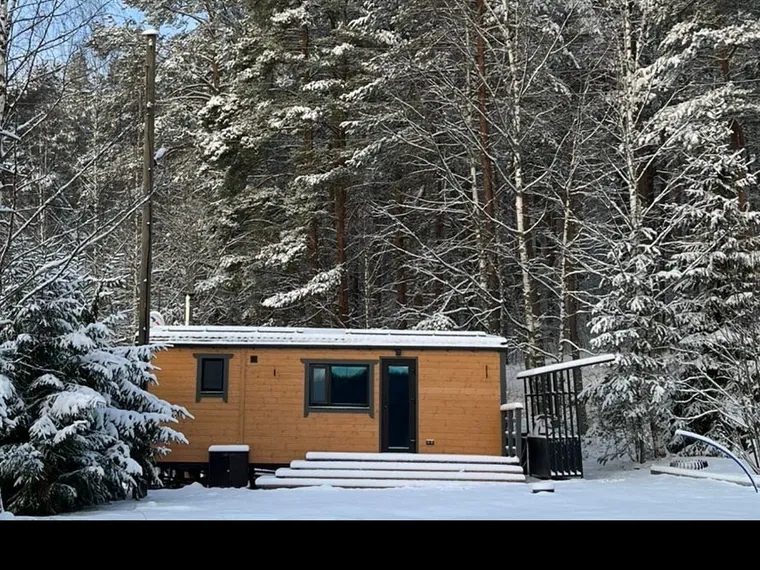
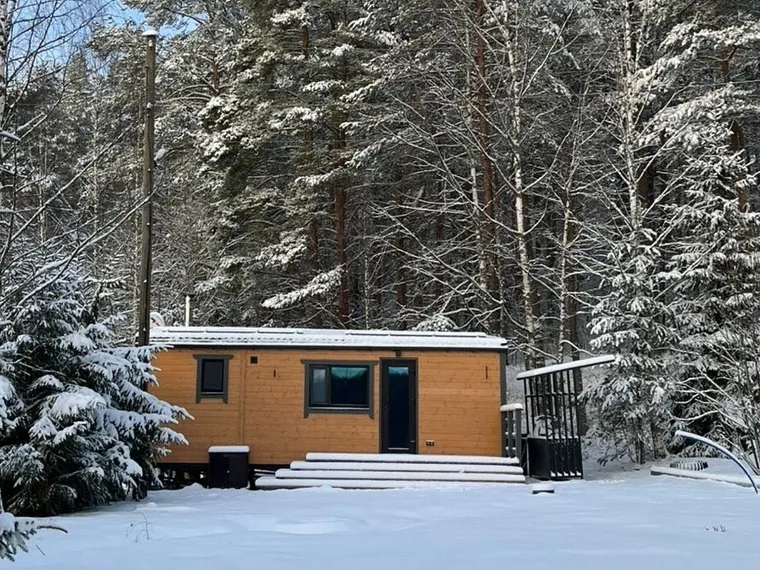
Минидом в Карелии: на первом фото дом целиком, со снегом перед ним
Первое фото было обрезано по крыльцо, а в каталоге рамка 4:3 срезала
низ дома. Надпись с исходного фото убрана, кадр 4:3 с домом и снегом.
Обложка на сайте без чёрной полосы снизу; план зелёного дома 48 м²
без чёрных полос и обрезков подписей.

Claude-Session: https://claude.ai/code/session_01Ncg2WsdbaUiHi2r3Knh2FN

diff --git a/promo.html b/promo.html
@@ -2249,7 +2249,7 @@ html.has-house { overflow: hidden; }
 </script>
 <script>
 var HOUSES = {"h1": {"title": "Чёрный снаружи, белый внутри", "facts": [["Размер", "6×8,5 м: дом 6×6 м и терраса 2,5×6 м"], ["Внутри", "две спальни, кухня-гостиная, прихожая, санузел, дровяная печь"], ["Отделка", "стены в краске, ламинат 33 класса"], ["Когда", "сентябрь 2026"]], "note": null, "spec": null, "video": null, "reviews": [["Нет слов! Красота. Стиль. Уют.", "Елена, комментарий ВКонтакте"], ["Шикарно выглядит.", "Сергей, комментарий ВКонтакте"]], "photos": [["h1-01", "Дом 6×8,5 м: сам дом 6×6 м и терраса 2,5×6 м под общей крышей", 0], ["h1-02", "Вечером горит свет под навесом террасы", 0], ["h1-03", "Холодильник и мебель заказчика приехали на участок прямо в доме", 0], ["h1-04", "Дровяная печь греет, даже если отключат электричество", 0], ["h1-05", "Спальня с двумя окнами", 0], ["h1-06", "Прихожая, справа санузел со стиральной машиной", 0], ["h1-07", "Цвет стен выбрал заказчик", 0], ["h1-08", "Стены подготовлены под плитку: её заказчик выберет и положит позже", 0], ["h1-09", "Две спальни, кухня-гостиная, прихожая и санузел", 1]]}, "h2": {"title": "Баня с жилой комнатой", "facts": [["Размер", "баня 31,5 м² и угловая терраса 12 м²"], ["Внутри", "комната 14 м², парная, душевая, санузел"], ["Изготовление", "3–4 недели"], ["Когда", "октябрь 2026"]], "note": null, "spec": null, "video": null, "reviews": [], "photos": [["h2-01", "Баня с жилой комнатой: 31,5 м² и угловая терраса 12 м²", 0], ["h2-02", "В сумерках на террасе горит свет", 0], ["h2-03", "Комната 14 м²: по плану здесь диван и кровать, можно остаться ночевать", 0], ["h2-04", "Коридор к парной и душевой", 0], ["h2-05", "Душевая отделана панелями под тёмный камень", 0], ["h2-06", "Санузел с окном: унитаз и раковина с тумбой", 0], ["h2-07", "Парная: дровяная печь у стены из кирпича", 0], ["h2-08", "Полки буквой Г, из парной дверь в душевую", 0], ["h2-09", "Планировка: комната, санузел, душевая, парная и терраса", 1]]}, "h3": {"title": "Дачный дом 3×9 с хозблоком", "facts": [["Размер", "3×9 м"], ["Внутри", "кухня-гостиная с печью, санузел с душем, прихожая, хозблок со своим входом"], ["Изготовление", "3–4 недели, установка за 1 день"], ["Когда", "сентябрь 2026"]], "note": "В хозблоке стеллаж и откидной столик: для рассады и зарядки аккумуляторов. Планировку придумал заказчик.", "spec": null, "video": null, "reviews": [["Какой классный проект! Восхищаюсь вами.", "Татьяна, комментарий ВКонтакте"], ["Сколько можно уместить в таком пространстве, обалдеть! Очень круто.", "Сергей, комментарий ВКонтакте"], ["Какое роскошество и продуманность!", "Katrin, комментарий ВКонтакте"]], "photos": [["h3-01", "Два входа под одним козырьком: в дом и в хозблок", 0], ["h3-02", "Кухня вдоль окон: духовой шкаф, посудомоечная машина и холодильник", 0], ["h3-03", "Топится печь, рядом плита и столешница под окнами", 0], ["h3-04", "Прихожая: шкаф подвешен над полом, справа дверь в санузел", 0], ["h3-05", "Санузел: душ, унитаз и стиральная машина", 0], ["h3-06", "Планировка: хозблок, прихожая, санузел и кухня-гостиная", 1]]}, "h4": {"title": "Баня 2,5×6", "facts": [["Размер", "2,5×6 м"], ["Внутри", "комната отдыха, моечная, парная"], ["Изготовление", "2–3 недели"], ["Гарантия", "5 лет"], ["Когда", "август 2026"]], "note": null, "spec": ["Утепление: пол и потолок 150 мм, стены 100 мм", "Крыша из гибкой черепицы", "Окна двухкамерные Rehau", "Пол со стоком для воды; влагостойкий ламинат 33 класса", "Парная и моечная из осины и лиственницы", "Входная дверь не промерзает зимой, внутри стеклянные банные двери", "Электрика с защитой от удара током (УЗО)"], "video": null, "reviews": [["Банька — мечта!", "Алла, комментарий ВКонтакте"]], "photos": [["h4-01", "Баня приезжает на участок готовой: с печью, полками и электрикой", 0], ["h4-02", "Огонь в печи видно через стеклянную дверцу топки", 0], ["h4-03", "Моечная: бак для воды, лавка и пол со стоком", 0], ["h4-04", "Парная: полки буквой Г и печь «Гейзер мини»", 0], ["h4-05", "Из парной дверь ведёт в моечную", 0], ["h4-06", "Планировка: комната отдыха, моечная и парная", 1]]}, "h5": {"title": "Дом 48 м² с угловой террасой", "facts": [["Размер", "48 м² и угловая терраса"], ["Внутри", "две спальни, гостиная, кухня-столовая, санузел"], ["Когда", "август 2026"]], "note": "Заказчики почти сразу переехали и живут. Всем тепло и комфортно.", "spec": null, "video": null, "reviews": [["Очень уютно получилось!", "Марина, комментарий ВКонтакте"]], "photos": [["h5-01", "Фото прислали заказчики после переезда", 0], ["h5-02", "В прихожей встречает хозяйский пёс", 0], ["h5-03", "Спальня с большим окном", 0], ["h5-04", "Вторая спальня стала детской", 0], ["h5-05", "Гостиная: угловой диван у окна", 0], ["h5-06", "Напротив дивана тумба с телевизором", 0], ["h5-07", "Санузел: водонагреватель и фильтр для воды", 0], ["h5-08", "Планировка: две спальни, гостиная, кухня-столовая, санузел и терраса", 1]]}, "h6": {"title": "Рыжий дом 69 м²", "facts": [["Размер", "6×11,5 м: дом 6×9 м и терраса 6×2,5 м"], ["Внутри", "кухня-гостиная с печью, две спальни, санузел с душем"], ["Изготовление", "4–5 недель под ключ, установка 2 дня"], ["Когда", "июнь 2026"]], "note": null, "spec": null, "video": null, "reviews": [["Какие ваши дома просторные и красивые.", "Елена, комментарий ВКонтакте"], ["Какой простор!", "Katrin, комментарий ВКонтакте"]], "photos": [["h6-01", "69 м² вместе с террасой: дом 6×9 м и терраса 6×2,5 м", 0], ["h6-02", "Терраса на всю ширину дома, к ней ведут широкие ступени", 0], ["h6-03", "Вид сбоку: окна вдоль длинной стороны и труба от печи", 0], ["h14-03", "Кухня-гостиная: печь и стеклянная дверь на террасу", 0], ["h14-04", "Спальня с двуспальной кроватью", 0], ["h14-05", "Вторая спальня", 0], ["h14-06", "Санузел: душ и раковина с тумбой", 0]]}, "h7": {"title": "Дом с баней", "facts": [["Внутри", "кухня-гостиная, спальня, санузел с душем, парная"], ["Изготовление", "до 4 недель, установка 1–2 дня"], ["Когда", "апрель 2026"]], "note": null, "spec": null, "video": null, "reviews": [["Какой чудесный домик! С банькой! Вот оно — тихое семейное счастье и релакс!", "Алла, комментарий ВКонтакте"]], "photos": [["h7-01", "Рыжий фасад и широкая терраса со ступенями", 0], ["h7-02", "Кухня-гостиная, за резной перегородкой спальное место", 0], ["h7-03", "Кухня: духовой шкаф, варочная панель и стол у окна", 0], ["h7-04", "Спальня: двуспальная кровать и ещё одно спальное место", 0], ["h7-05", "Санузел: душевая со стеклянными дверями и зеркало с подсветкой", 0], ["h7-06", "Парная: дровяная печь и полки с подсветкой", 0], ["h7-07", "Печь-каменка, дверь из парной ведёт в дом", 0], ["h7-08", "Планировка дома с баней", 1]]}, "h8": {"title": "Дом-студия 27 м²", "facts": [["Размер", "27 м²"], ["Внутри", "комната с печью, спальня, санузел с душем"], ["Изготовление", "12–15 дней, установка за несколько часов"], ["Когда", "апрель 2026"]], "note": "Зимний дом в комплектации под ключ: привезли, поставили, заходи и живи.", "spec": null, "video": null, "reviews": [], "photos": [["h8-01", "Зимний дом-студия 27 м² с дровяной печью", 0], ["h8-02", "Комната с печью и окнами на две стороны", 0], ["h8-03", "Коридор: шкаф-купе с зеркалом, в конце печь", 0], ["h8-04", "Отдельная спальня", 0], ["h8-05", "Санузел: душ, раковина над стиральной машиной и унитаз", 0]]}, "h9": {"title": "Дом 48 м², зелёный", "facts": [["Размер", "48 м²"], ["Внутри", "кухня-гостиная с печью, спальня, санузел, прихожая с гардеробом"], ["Изготовление", "3 недели, установка 1 день"], ["Когда", "март 2026"]], "note": null, "spec": null, "video": null, "reviews": [["Мне нравятся все ваши дома! Особенно в тёплых светлых тонах.", "Татьяна, комментарий ВКонтакте"], ["Очень классный. Компактный.", "комментарий ВКонтакте"]], "photos": [["h9-01", "Зелёный фасад и белая терраса на закате", 0], ["h9-02", "Терраса с белыми перилами у входа", 0], ["h9-03", "Кухня-гостиная с печью и окнами на две стороны", 0], ["h9-04", "Кухня-гостиная во всю ширину дома, в конце печь", 0], ["h9-05", "Спальня с большим окном", 0], ["h9-06", "Санузел: стены под тёмный мрамор, место под душ", 0], ["h9-07", "Планировка: спальня, кухня-гостиная, прихожая с гардеробом и санузел", 1]]}, "h10": {"title": "Дом 48 м², рыжий с графитом", "facts": [["Размер", "48 м², 6×8 м"], ["Внутри", "две спальни, кухня-гостиная с печью, санузел, прихожая"], ["Изготовление", "3 недели под ключ"], ["Когда", "март 2026"]], "note": null, "spec": null, "video": null, "reviews": [["А главное — качественный! Как вспомню свой мини-теремок, так вздрогну.", "Нина, комментарий ВКонтакте"], ["Уютный домик очень! И очень симпатичный!", "Алла, комментарий ВКонтакте"]], "photos": [["h10-01", "Дом 48 м² зимой: свет у входа и в окнах", 0], ["h10-02", "Вход с фонарями по обе стороны двери", 0], ["h10-03", "Гостиная: светлые стены и тёмный пол", 0], ["h10-04", "Печь у стены, отделанной под чёрный мрамор", 0], ["h10-05", "Стеклянная дверь на улицу", 0], ["h10-06", "Прихожая: шкаф с жалюзийными дверцами", 0], ["h10-07", "Душевая: стены под тёмный камень", 0], ["h10-08", "Первый тост в новом доме, у печи", 0], ["h10-09", "Планировка: две спальни, кухня-гостиная, санузел и прихожая", 1]]}, "h11": {"title": "Дом 54 м², бордовый", "facts": [["Размер", "54 м²"], ["Внутри", "кухня-гостиная с печью, две спальни, санузел"], ["Изготовление", "3 недели под ключ, установка 1 день"], ["Когда", "март 2026"]], "note": "Планировку можно изменить бесплатно.", "spec": null, "video": null, "reviews": [["Цвет дома просто отличный! Планировка замечательная!", "Олеся, комментарий ВКонтакте"], ["Классный дом! Цвет потрясающий.", "Елена, комментарий ВКонтакте"]], "photos": [["h11-01", "Бордовый фасад, белые окна и терраса", 0], ["h11-02", "Кухня-гостиная с дровяной печью", 0], ["h11-03", "Коридор к спальням", 0], ["h11-04", "Санузел: душ, стены под светлый мрамор", 0], ["h11-05", "Прихожая: входная дверь с зеркалом", 0], ["h11-06", "Планировка: две спальни, кухня-гостиная, санузел", 1]]}, "h12": {"title": "Зимний минидом", "facts": [["Внутри", "кухня-гостиная 11,4 м², спальня 5,8 м², санузел, прихожая"], ["Терраса", "14 м²"], ["Изготовление", "2 недели под ключ, установка за несколько часов"], ["Когда", "март 2026"]], "note": "Подходит, чтобы начать дачную жизнь или сдавать в аренду.", "spec": null, "video": null, "reviews": [["Какой очаровательный и удобный домик! Компактный такой!", "Алла, комментарий ВКонтакте"]], "photos": [["h12-01", "Терраса 14 м² перед большими окнами", 0], ["h12-02", "Печь уже топится, в доме тепло", 0], ["h12-03", "Кухня-гостиная: диван у больших окон", 0], ["h12-04", "Кухня вдоль стены", 0], ["h12-05", "Санузел с душем", 0], ["h12-06", "Планировка: кухня-гостиная, спальня, санузел, прихожая и терраса", 1]]}, "h13": {"title": "Дом на вырост, 72 м²", "facts": [["Размер", "60 м² и терраса 12 м²"], ["Модули", "три, под общей крышей"], ["Когда", "октябрь 2025"]], "note": "Раньше на этом участке стоял один модуль 27 м². Теперь это дом на 60 м² с террасой.", "spec": null, "video": null, "reviews": [["Юля, Юра и всей вашей команде огромное спасибо! …С вами просто замечательно работать! В доме тепло, просторно, светло… Не верится, что один модуль превратился в такую красоту.", "Олеся, заказчица"]], "photos": [["h13-01", "Дом на вырост: 60 м² и терраса 12 м², три модуля", 0], ["h13-02", "Терраса 12 м² у входа", 0], ["h13-03", "Входная дверь не промерзает зимой", 0], ["h13-04", "Прихожая со шкафом", 0], ["h13-05", "В прихожей есть окно", 0], ["h13-06", "Шкаф сделан под заказ", 0], ["h13-07", "Кухня-гостиная: кухонная зона и печь", 0], ["h13-08", "Кухня-гостиная: зона отдыха", 0], ["h13-09", "Спальня родителей", 0]]}, "h15": {"title": "Зимний дом 40 м²", "facts": [["Размер", "дом 30 м² и крытая терраса 10 м²"], ["Изготовление", "3 недели под ключ"], ["Установка", "1 день вместе с подключением к коммуникациям"], ["Когда", "декабрь 2025"]], "note": "Это типовой проект компании.", "spec": null, "video": null, "reviews": [], "photos": [["h15-01", "Зимний дом 40 м² вместе с террасой: дом 30 м² и крытая терраса 10 м²", 0], ["h15-02", "Терраса под общей крышей, у входа горит свет", 0], ["h15-03", "Прихожая: входная дверь с зеркалом и шкаф с жалюзийными дверцами", 0], ["h15-04", "Тёмные двери и дровяная печь в углу", 0], ["h15-05", "Комната с двумя окнами и печью", 0], ["h15-06", "Санузел: душ, водонагреватель и фильтры для воды", 0]]}, "h16": {"title": "Минидом в Карелии", "facts": [["Где", "Карелия"], ["Фото", "прислали заказчики зимой"]], "note": "Заказчики прислали эти фото зимой вместе с большим, на 5 минут, голосовым сообщением. Юлия: «Я слушала и плакала».", "spec": null, "video": null, "reviews": [["Волшебно!", "комментарий ВКонтакте"]], "photos": [["h16-01", "Минидом среди заснеженных сосен, фото прислали заказчики", 0], ["h16-02", "Спальня с гирляндой, за окном зимний лес", 0], ["h16-03", "Кровать у окна с видом на лес", 0]]}};
-var SIZES = {"h1-01": [960, 1280], "h1-02": [960, 1280], "h1-03": [1000, 1334], "h1-04": [1000, 1334], "h1-05": [1000, 1334], "h1-06": [1000, 1334], "h1-07": [1000, 1334], "h1-08": [1000, 1334], "h1-09": [1179, 1881], "h2-01": [1000, 1334], "h2-02": [1000, 1334], "h2-03": [1000, 1334], "h2-04": [1000, 1334], "h2-05": [1000, 1334], "h2-06": [1000, 1334], "h2-07": [1000, 1334], "h2-08": [1000, 1334], "h2-09": [1142, 1466], "h3-01": [960, 1280], "h3-02": [1000, 1334], "h3-03": [1000, 1334], "h3-04": [1000, 1334], "h3-05": [1000, 1626], "h3-06": [1146, 500], "h4-01": [1000, 1334], "h4-02": [1000, 1334], "h4-03": [1000, 1334], "h4-04": [1000, 1334], "h4-05": [1000, 1334], "h4-06": [1179, 1881], "h5-01": [1000, 752], "h5-02": [990, 1280], "h5-03": [960, 1280], "h5-04": [960, 1280], "h5-05": [960, 1280], "h5-06": [960, 1280], "h5-07": [960, 1280], "h5-08": [1049, 1513], "c2": [760, 570], "c3": [760, 570], "c4": [760, 570], "c5": [760, 570], "hero-1": [960, 948], "h6-01": [1000, 1334], "h6-02": [1000, 1334], "h6-03": [1000, 1334], "h7-01": [1000, 1334], "h7-02": [960, 1280], "h7-03": [960, 1280], "h7-04": [960, 1280], "h7-05": [960, 1280], "h7-06": [960, 1280], "h7-07": [960, 1280], "h7-08": [1108, 929], "h8-01": [1000, 1334], "h8-02": [1000, 1334], "h8-03": [1000, 1334], "h8-04": [1000, 1334], "h8-05": [1000, 1334], "h9-01": [1000, 1334], "h9-02": [1000, 1334], "h9-03": [1000, 1334], "h9-04": [1000, 1334], "h9-05": [1000, 1334], "h9-06": [1000, 750], "h9-07": [1179, 952], "h10-01": [1000, 1334], "h10-02": [1000, 1334], "h10-03": [960, 1280], "h10-04": [960, 1280], "h10-05": [1000, 1334], "h10-06": [1000, 1334], "h10-07": [1000, 1334], "h10-08": [960, 1280], "h10-09": [1109, 899], "h11-01": [960, 1280], "h11-02": [960, 1280], "h11-03": [960, 1280], "h11-04": [1000, 1334], "h11-05": [1000, 1334], "h11-06": [1179, 1757], "h12-01": [1000, 1334], "h12-02": [1000, 1334], "h12-03": [1000, 1334], "h12-04": [1000, 1334], "h12-05": [1000, 1334], "h12-06": [1177, 767], "h13-01": [1000, 1026], "h13-02": [1000, 999], "h13-03": [1000, 973], "h13-04": [1000, 1132], "h13-05": [1000, 1066], "h13-06": [1000, 959], "h13-07": [1000, 1039], "h13-08": [1000, 986], "h13-09": [1000, 986], "h14-01": [1000, 1334], "h14-02": [1000, 1334], "h14-03": [1000, 1334], "h14-04": [1000, 1334], "h14-05": [1000, 1334], "c6": [760, 570], "c7": [760, 570], "c8": [760, 570], "c9": [760, 570], "c10": [760, 570], "c11": [760, 570], "c12": [760, 570], "c13": [760, 570], "c14": [760, 570], "h14-06": [1000, 1334], "h14-07": [1000, 1334], "h15-01": [1000, 1334], "h15-02": [1000, 1334], "h15-03": [1000, 1334], "h15-04": [1000, 1334], "h15-05": [1000, 1334], "h15-06": [1000, 1334], "h16-01": [1000, 920], "h16-02": [1000, 1333], "h16-03": [1000, 1333], "h16-04": [1000, 750], "c15": [760, 570], "c16": [760, 570]};
+var SIZES = {"h1-01": [960, 1280], "h1-02": [960, 1280], "h1-03": [1000, 1334], "h1-04": [1000, 1334], "h1-05": [1000, 1334], "h1-06": [1000, 1334], "h1-07": [1000, 1334], "h1-08": [1000, 1334], "h1-09": [1179, 1881], "h2-01": [1000, 1334], "h2-02": [1000, 1334], "h2-03": [1000, 1334], "h2-04": [1000, 1334], "h2-05": [1000, 1334], "h2-06": [1000, 1334], "h2-07": [1000, 1334], "h2-08": [1000, 1334], "h2-09": [1142, 1466], "h3-01": [960, 1280], "h3-02": [1000, 1334], "h3-03": [1000, 1334], "h3-04": [1000, 1334], "h3-05": [1000, 1626], "h3-06": [1146, 500], "h4-01": [1000, 1334], "h4-02": [1000, 1334], "h4-03": [1000, 1334], "h4-04": [1000, 1334], "h4-05": [1000, 1334], "h4-06": [1179, 1881], "h5-01": [1000, 752], "h5-02": [990, 1280], "h5-03": [960, 1280], "h5-04": [960, 1280], "h5-05": [960, 1280], "h5-06": [960, 1280], "h5-07": [960, 1280], "h5-08": [1049, 1513], "c2": [760, 570], "c3": [760, 570], "c4": [760, 570], "c5": [760, 570], "hero-1": [960, 948], "h6-01": [1000, 1334], "h6-02": [1000, 1334], "h6-03": [1000, 1334], "h7-01": [1000, 1334], "h7-02": [960, 1280], "h7-03": [960, 1280], "h7-04": [960, 1280], "h7-05": [960, 1280], "h7-06": [960, 1280], "h7-07": [960, 1280], "h7-08": [1108, 929], "h8-01": [1000, 1334], "h8-02": [1000, 1334], "h8-03": [1000, 1334], "h8-04": [1000, 1334], "h8-05": [1000, 1334], "h9-01": [1000, 1334], "h9-02": [1000, 1334], "h9-03": [1000, 1334], "h9-04": [1000, 1334], "h9-05": [1000, 1334], "h9-06": [1000, 750], "h9-07": [1062, 838], "h10-01": [1000, 1334], "h10-02": [1000, 1334], "h10-03": [960, 1280], "h10-04": [960, 1280], "h10-05": [1000, 1334], "h10-06": [1000, 1334], "h10-07": [1000, 1334], "h10-08": [960, 1280], "h10-09": [1109, 899], "h11-01": [960, 1280], "h11-02": [960, 1280], "h11-03": [960, 1280], "h11-04": [1000, 1334], "h11-05": [1000, 1334], "h11-06": [1179, 1757], "h12-01": [1000, 1334], "h12-02": [1000, 1334], "h12-03": [1000, 1334], "h12-04": [1000, 1334], "h12-05": [1000, 1334], "h12-06": [1177, 767], "h13-01": [1000, 1026], "h13-02": [1000, 999], "h13-03": [1000, 973], "h13-04": [1000, 1132], "h13-05": [1000, 1066], "h13-06": [1000, 959], "h13-07": [1000, 1039], "h13-08": [1000, 986], "h13-09": [1000, 986], "h14-01": [1000, 1334], "h14-02": [1000, 1334], "h14-03": [1000, 1334], "h14-04": [1000, 1334], "h14-05": [1000, 1334], "c6": [760, 570], "c7": [760, 570], "c8": [760, 570], "c9": [760, 570], "c10": [760, 570], "c11": [760, 570], "c12": [760, 570], "c13": [760, 570], "c14": [760, 570], "h14-06": [1000, 1334], "h14-07": [1000, 1334], "h15-01": [1000, 1334], "h15-02": [1000, 1334], "h15-03": [1000, 1334], "h15-04": [1000, 1334], "h15-05": [1000, 1334], "h15-06": [1000, 1334], "h16-01": [1000, 750], "h16-02": [1000, 1333], "h16-03": [1000, 1333], "h16-04": [1000, 750], "c15": [760, 570], "c16": [760, 570]};
 </script>
 <script>
 (function () {
